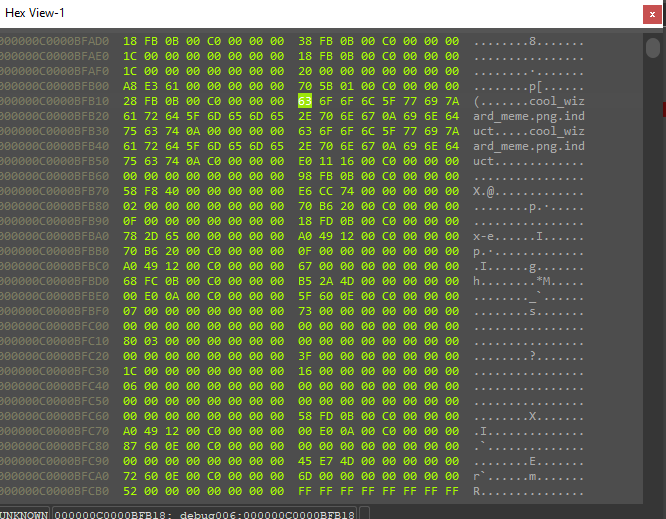
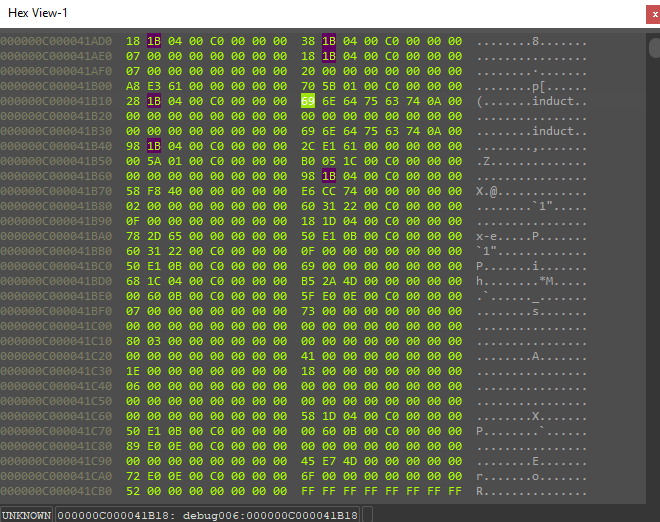
update

Changed region(s): [[0.0, 0.0, 0.8788, 1.0], [0.9394, 0.0, 1.0, 0.1233], [0.7879, 0.0617, 0.8182, 0.0925]]

diff --git a/README.md b/README.md
@@ -323,21 +323,15 @@ Dump ra được:
 
 [dump3.json](https://github.com/konoha279/Flare-on-8/blob/main/other/dump3.json)
 
-Bây giờ sẽ dùng "Moonbeam" để tìm trong dump2.json và dump3.json
-
-![alt text](https://github.com/konoha279/Flare-on-8/blob/main/image/Untitled%2034.png)
-
-thì thấy có xuất hiện ở dump3.json và có id là 193. 
-
-![alt text](https://github.com/konoha279/Flare-on-8/blob/main/image/Untitled%2035.png)
-
-Để đấy.
 
 Lúc này debug cho luồng chương trình chạy đến `wizardcult_potion_CommandPotion`
 
 ![alt text](https://github.com/konoha279/Flare-on-8/blob/main/image/Untitled%2036.png)
 
 và chạy đến dòng 42, sẽ thấy ở stack sẽ đưa tất cả tên file trong folder `/mages_tower` vào stack
+
+![alt text](https://github.com/konoha279/Flare-on-8/blob/main/image/Untitled%2037.png)
+
 
 theo dõi chương trình thì sẽ thầy hàm `wizardcult_vm__ptr_Cpu_Execute` , hàm này sẽ load vm và excute instruction bằng hàm `wizardcult_vm__ptr_Cpu_ExecuteInstruction` 
 
@@ -349,11 +343,21 @@ Kết hợp đống instruction từ file decrypt bằng degob và hàm `wizardc
 
 ![alt text](https://github.com/konoha279/Flare-on-8/blob/main/image/Untitled%2040.png)
 
-Lúc này kết hợp với dump3,json với những điều trên cùng với đoạn chat này.
+Tiếp tục debug cho chạy đến khi return hàm `wizardcult_potion_CommandPotion` và đến `wizardcult_comms_CastSpells`, nhưng chú ý tại biến `prog_size_16e` và `prog_size_16f` là địa chỉ trỏ tới các byte đã được XOR với 162 vừa rồi
+
+![alt text](https://github.com/konoha279/Flare-on-8/blob/main/image/a.png)
+
+debug vào bên trong hàm `wizardcult_comms_CastSpells` thì thấy tại dòng 47 nó sẽ dùng byte thứ 2*index của các byte được XOR trên để lấy chuỗi trong bảng `wizardcult_tables_Spells`
+
+![alt text](https://github.com/konoha279/Flare-on-8/blob/main/image/b.png)
+
+![alt text](https://github.com/konoha279/Flare-on-8/blob/main/image/c.png)
+
+Lúc này kết hợp với đoạn chat này. Thì ta biết được mỗi byte thứ 2*index sẽ được chuyển thành chuỗi và chuỗi này được lấy từ trong bảng được dump ra file dump3.json, sau đó sẽ tạo thành 1 dòng tin nhắn và gửi lên server.
 
 ![alt text](https://github.com/konoha279/Flare-on-8/blob/main/image/Untitled%2041.png)
 
-Thì tính toán ra được 2 tên file là `cool_wizard_meme.png` và `induct`. Lúc này tôi biết được trong folder `/mages_tower` có 2 file là `induct` và `cool_wizard_meme.png`
+Tôi chuyển đoạn tin nhắn đó sang các byte cần thiết và tính toán ra được 2 tên file là `cool_wizard_meme.png` và `induct`. Lúc này tôi biết được trong folder `/mages_tower` có 2 file là `induct` và `cool_wizard_meme.png`
 
 ![alt text](https://github.com/konoha279/Flare-on-8/blob/main/image/Untitled%2042.png)
 
